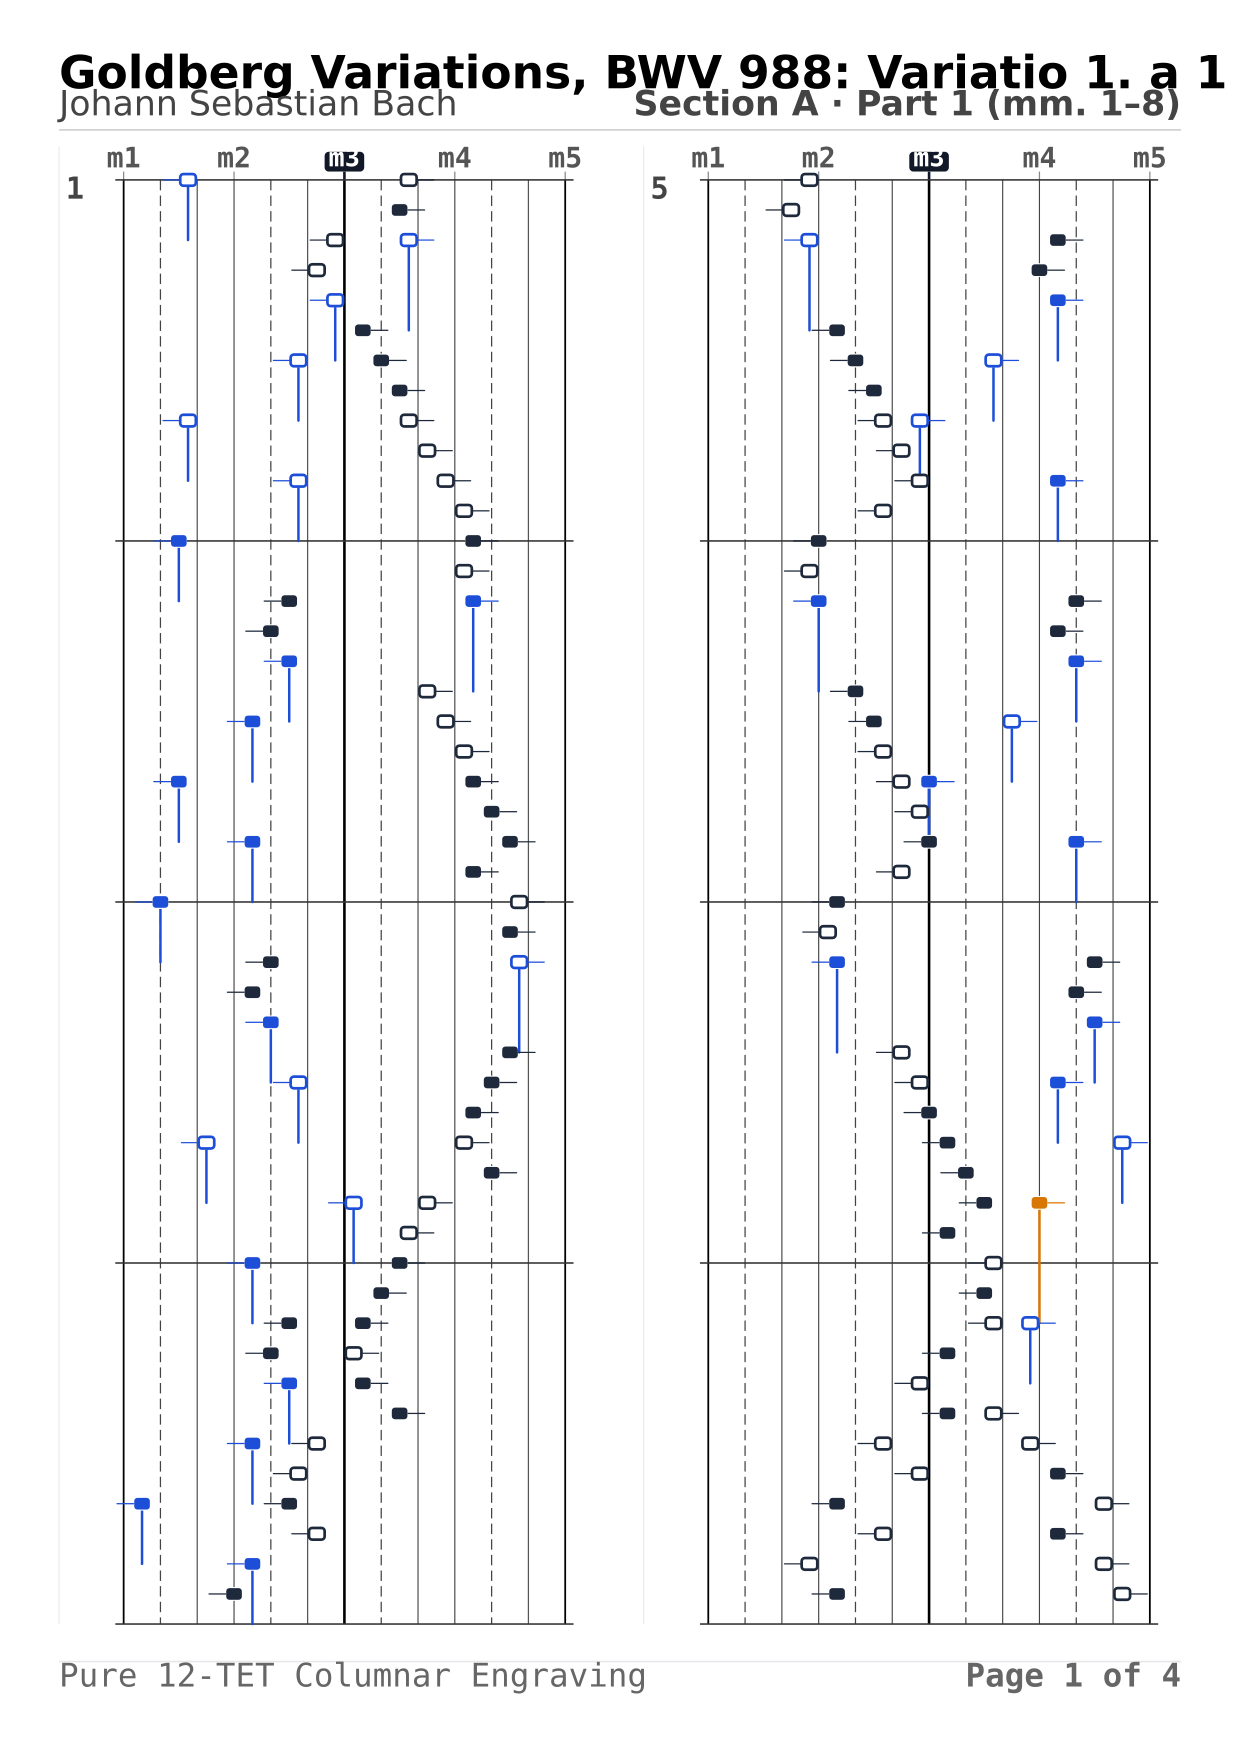
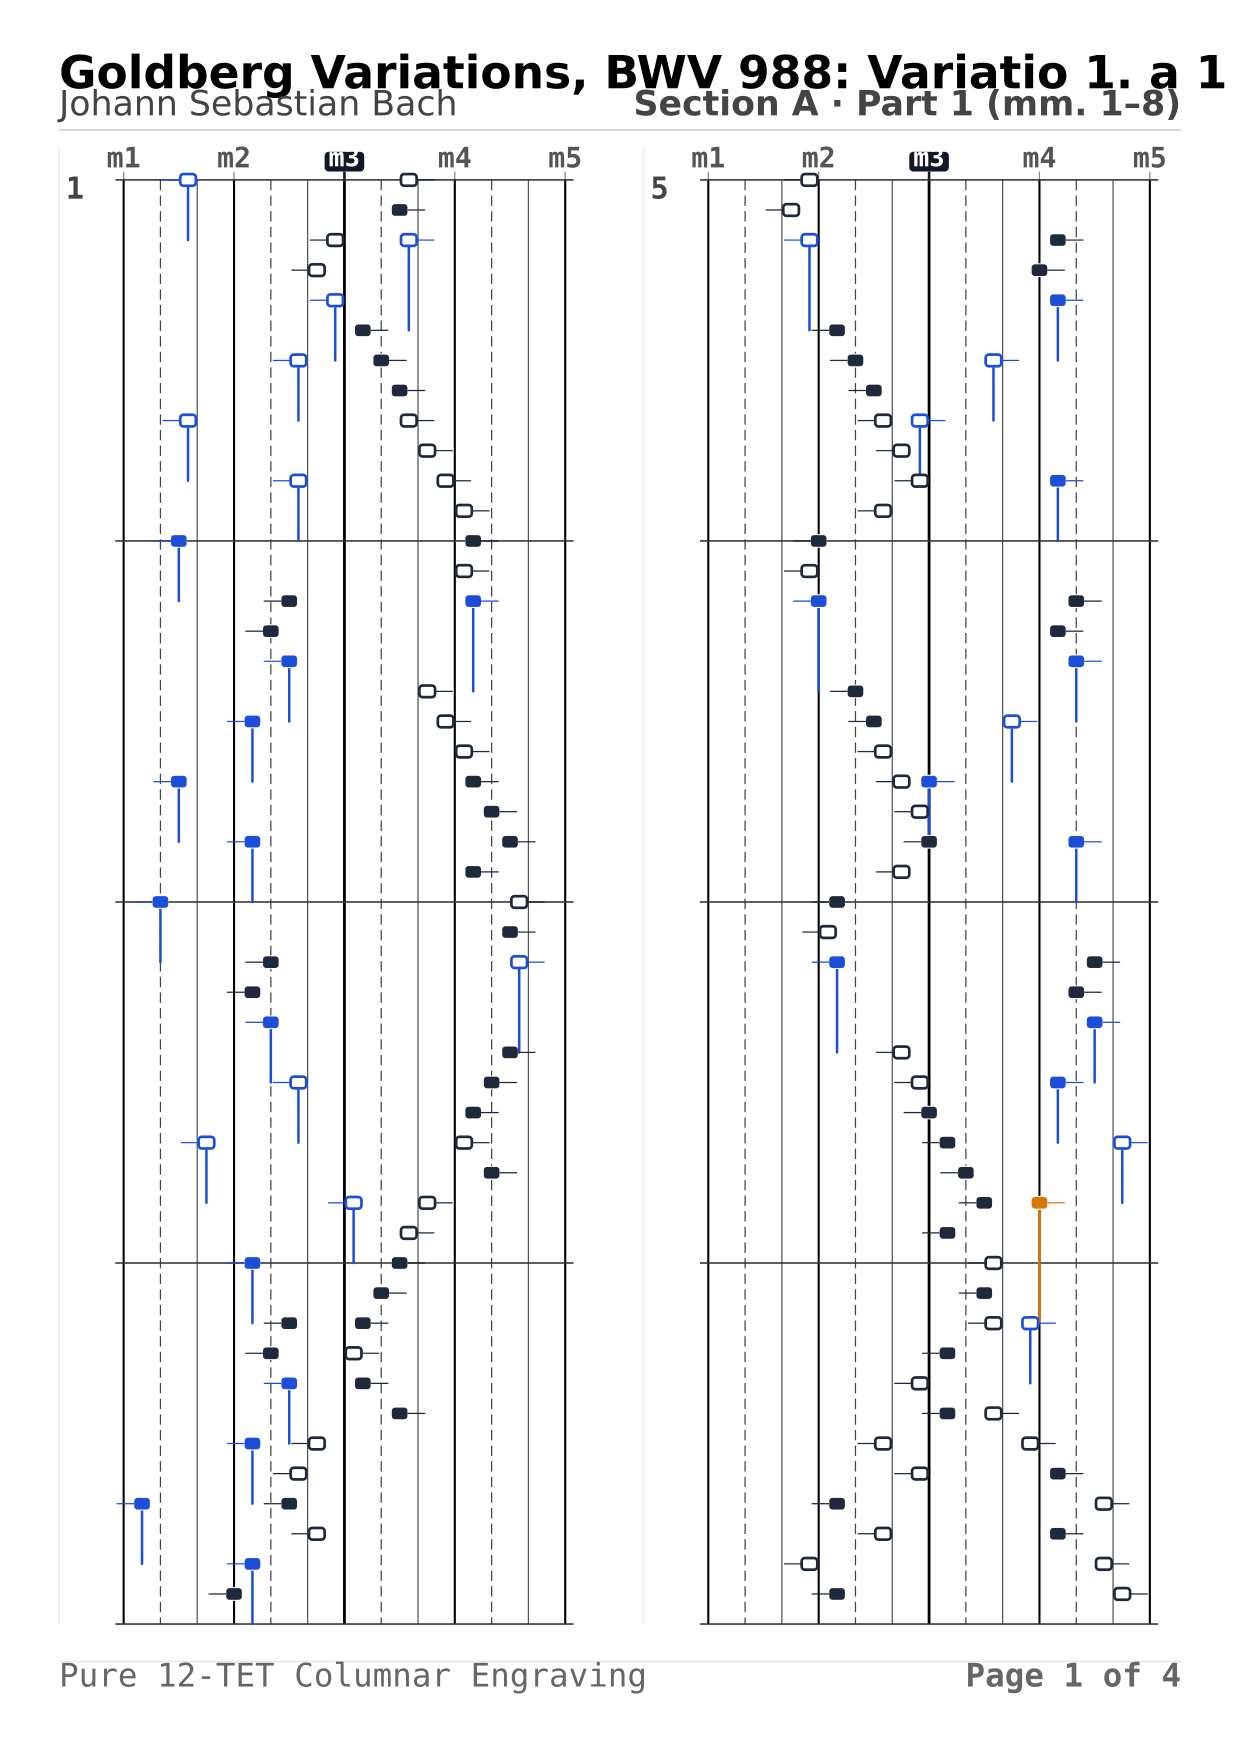
feat(engraving): uniform 1.0pt thickness for m1, 2, 4, 5, visibly thicker than line 9, with 1.35pt m3 spine

diff --git a/src/render/print-layout.ts b/src/render/print-layout.ts
@@ -384,13 +384,11 @@ export function renderPageToSvg(
     const staffOriginY = colTopPt + colHeaderHeightPt;
     const staffEndY = staffOriginY + colStaffHeightPt;
 
-    // Staff Lines (Approach 1: Weight Hierarchy with m3 Central Spine)
-    // - m3 (Center Axis, Middle C): authoritative bold central spine (1.25pt, #000000)
-    // - m1 & m5 (Staff Borders): clean outer bounding frame (0.85pt, #000000)
-    // - m2 & m4 (Interior Sub-Octaves): demoted secondary guides (0.55pt, #444444)
-    // - Landmark 5 (PC 4): small dashes (0.55pt, #555555, [5, 2.5])
-    // - Landmark 9 (PC 8): thin straight solid line (0.55pt, #666666)
-    // Total stroke ink decreases by 19% (net-negative visual noise) while establishing an unambiguous center axis.
+    // Staff Lines (1-5-9 Symmetric 3-Line Topography with m3 Center Spine)
+    // - m3 (Center Axis, Middle C): authoritative bold central spine (1.35pt, #000000)
+    // - m1, m2, m4, m5 (Octave Boundaries): same uniform thickness (1.0pt, #000000), visibly thicker than line 9
+    // - Landmark 5 (PC 4): small dashes (0.6pt, #444444, [5, 2.5])
+    // - Landmark 9 (PC 8): thin straight solid line (0.6pt, #555555)
     for (let p = minPitch; p <= maxPitch; p++) {
       const pc = ((p % 12) + 12) % 12;
       const px = colStaffLeftPt + (p - minPitch) * ptPerSemitone;
@@ -400,14 +398,11 @@ export function renderPageToSvg(
       if (normStaffStyle === 'tritone-split') {
         if (pc === 0) {
           if (displayOct === 3) {
-            // m3: authoritative central spine (1.25pt)
-            svgParts.push(`    <line x1="${px.toFixed(2)}" y1="${staffOriginY.toFixed(2)}" x2="${px.toFixed(2)}" y2="${staffEndY.toFixed(2)}" stroke="#000000" stroke-width="1.25"/>`);
-          } else if (displayOct === 1 || displayOct === 5) {
-            // m1 & m5: clean boundary frame (0.85pt)
-            svgParts.push(`    <line x1="${px.toFixed(2)}" y1="${staffOriginY.toFixed(2)}" x2="${px.toFixed(2)}" y2="${staffEndY.toFixed(2)}" stroke="#000000" stroke-width="0.85"/>`);
+            // m3: authoritative central spine (1.35pt)
+            svgParts.push(`    <line x1="${px.toFixed(2)}" y1="${staffOriginY.toFixed(2)}" x2="${px.toFixed(2)}" y2="${staffEndY.toFixed(2)}" stroke="#000000" stroke-width="1.35"/>`);
           } else {
-            // m2 & m4: demoted secondary guides (0.55pt, deep charcoal)
-            svgParts.push(`    <line x1="${px.toFixed(2)}" y1="${staffOriginY.toFixed(2)}" x2="${px.toFixed(2)}" y2="${staffEndY.toFixed(2)}" stroke="#444444" stroke-width="0.55"/>`);
+            // m1, m2, m4, m5: uniform octave line (1.0pt), visibly thicker than line 9 (0.6pt)
+            svgParts.push(`    <line x1="${px.toFixed(2)}" y1="${staffOriginY.toFixed(2)}" x2="${px.toFixed(2)}" y2="${staffEndY.toFixed(2)}" stroke="#000000" stroke-width="1.0"/>`);
           }
         } else if (pc === 4) {
           // Landmark 5 small dashes
@@ -421,7 +416,7 @@ export function renderPageToSvg(
         if (pc % 2 === 0) {
           const isOct = pc === 0;
           const isCenter = isOct && displayOct === 3;
-          const strokeW = isCenter ? '1.25' : isOct ? '0.85' : '0.55';
+          const strokeW = isCenter ? '1.35' : isOct ? '1.0' : '0.6';
           svgParts.push(`    <line x1="${px.toFixed(2)}" y1="${staffOriginY.toFixed(2)}" x2="${px.toFixed(2)}" y2="${staffEndY.toFixed(2)}" stroke="#000000" stroke-width="${strokeW}"/>`);
         }
       }

diff --git a/test/print-layout.test.ts b/test/print-layout.test.ts
@@ -364,8 +364,10 @@ test('Rectangle / Square Morphology & 1-5-9 Symmetric Lines in SVG Print Engine'
   });
 
   // 1. Staff Lines: 1, 5, 9 (Symmetric 3-Line Staff with m3 Spine Hierarchy)
-  // PC 0 (m3): authoritative bold 1.25pt solid line
-  assert.match(svg, /stroke="#000000"[^>]*stroke-width="1\.25"/, 'Must contain bold 1.25pt central spine line (m3)');
+  // PC 0 (m3): authoritative bold 1.35pt solid line
+  assert.match(svg, /stroke="#000000"[^>]*stroke-width="1\.35"/, 'Must contain bold 1.35pt central spine line (m3)');
+  // PC 0 (m1, m2, m4, m5): uniform 1.0pt octave lines, visibly thicker than line 9
+  assert.match(svg, /stroke="#000000"[^>]*stroke-width="1\.0"/, 'Must contain uniform 1.0pt octave lines for m1, m2, m4, m5');
   // PC 4: small dashes 5,2.5
   assert.match(svg, /stroke="#444444"[^>]*stroke-width="0\.6"[^>]*stroke-dasharray="5,2\.5"/, 'Must contain small dashed line for 5');
   // PC 8: thin straight solid line
